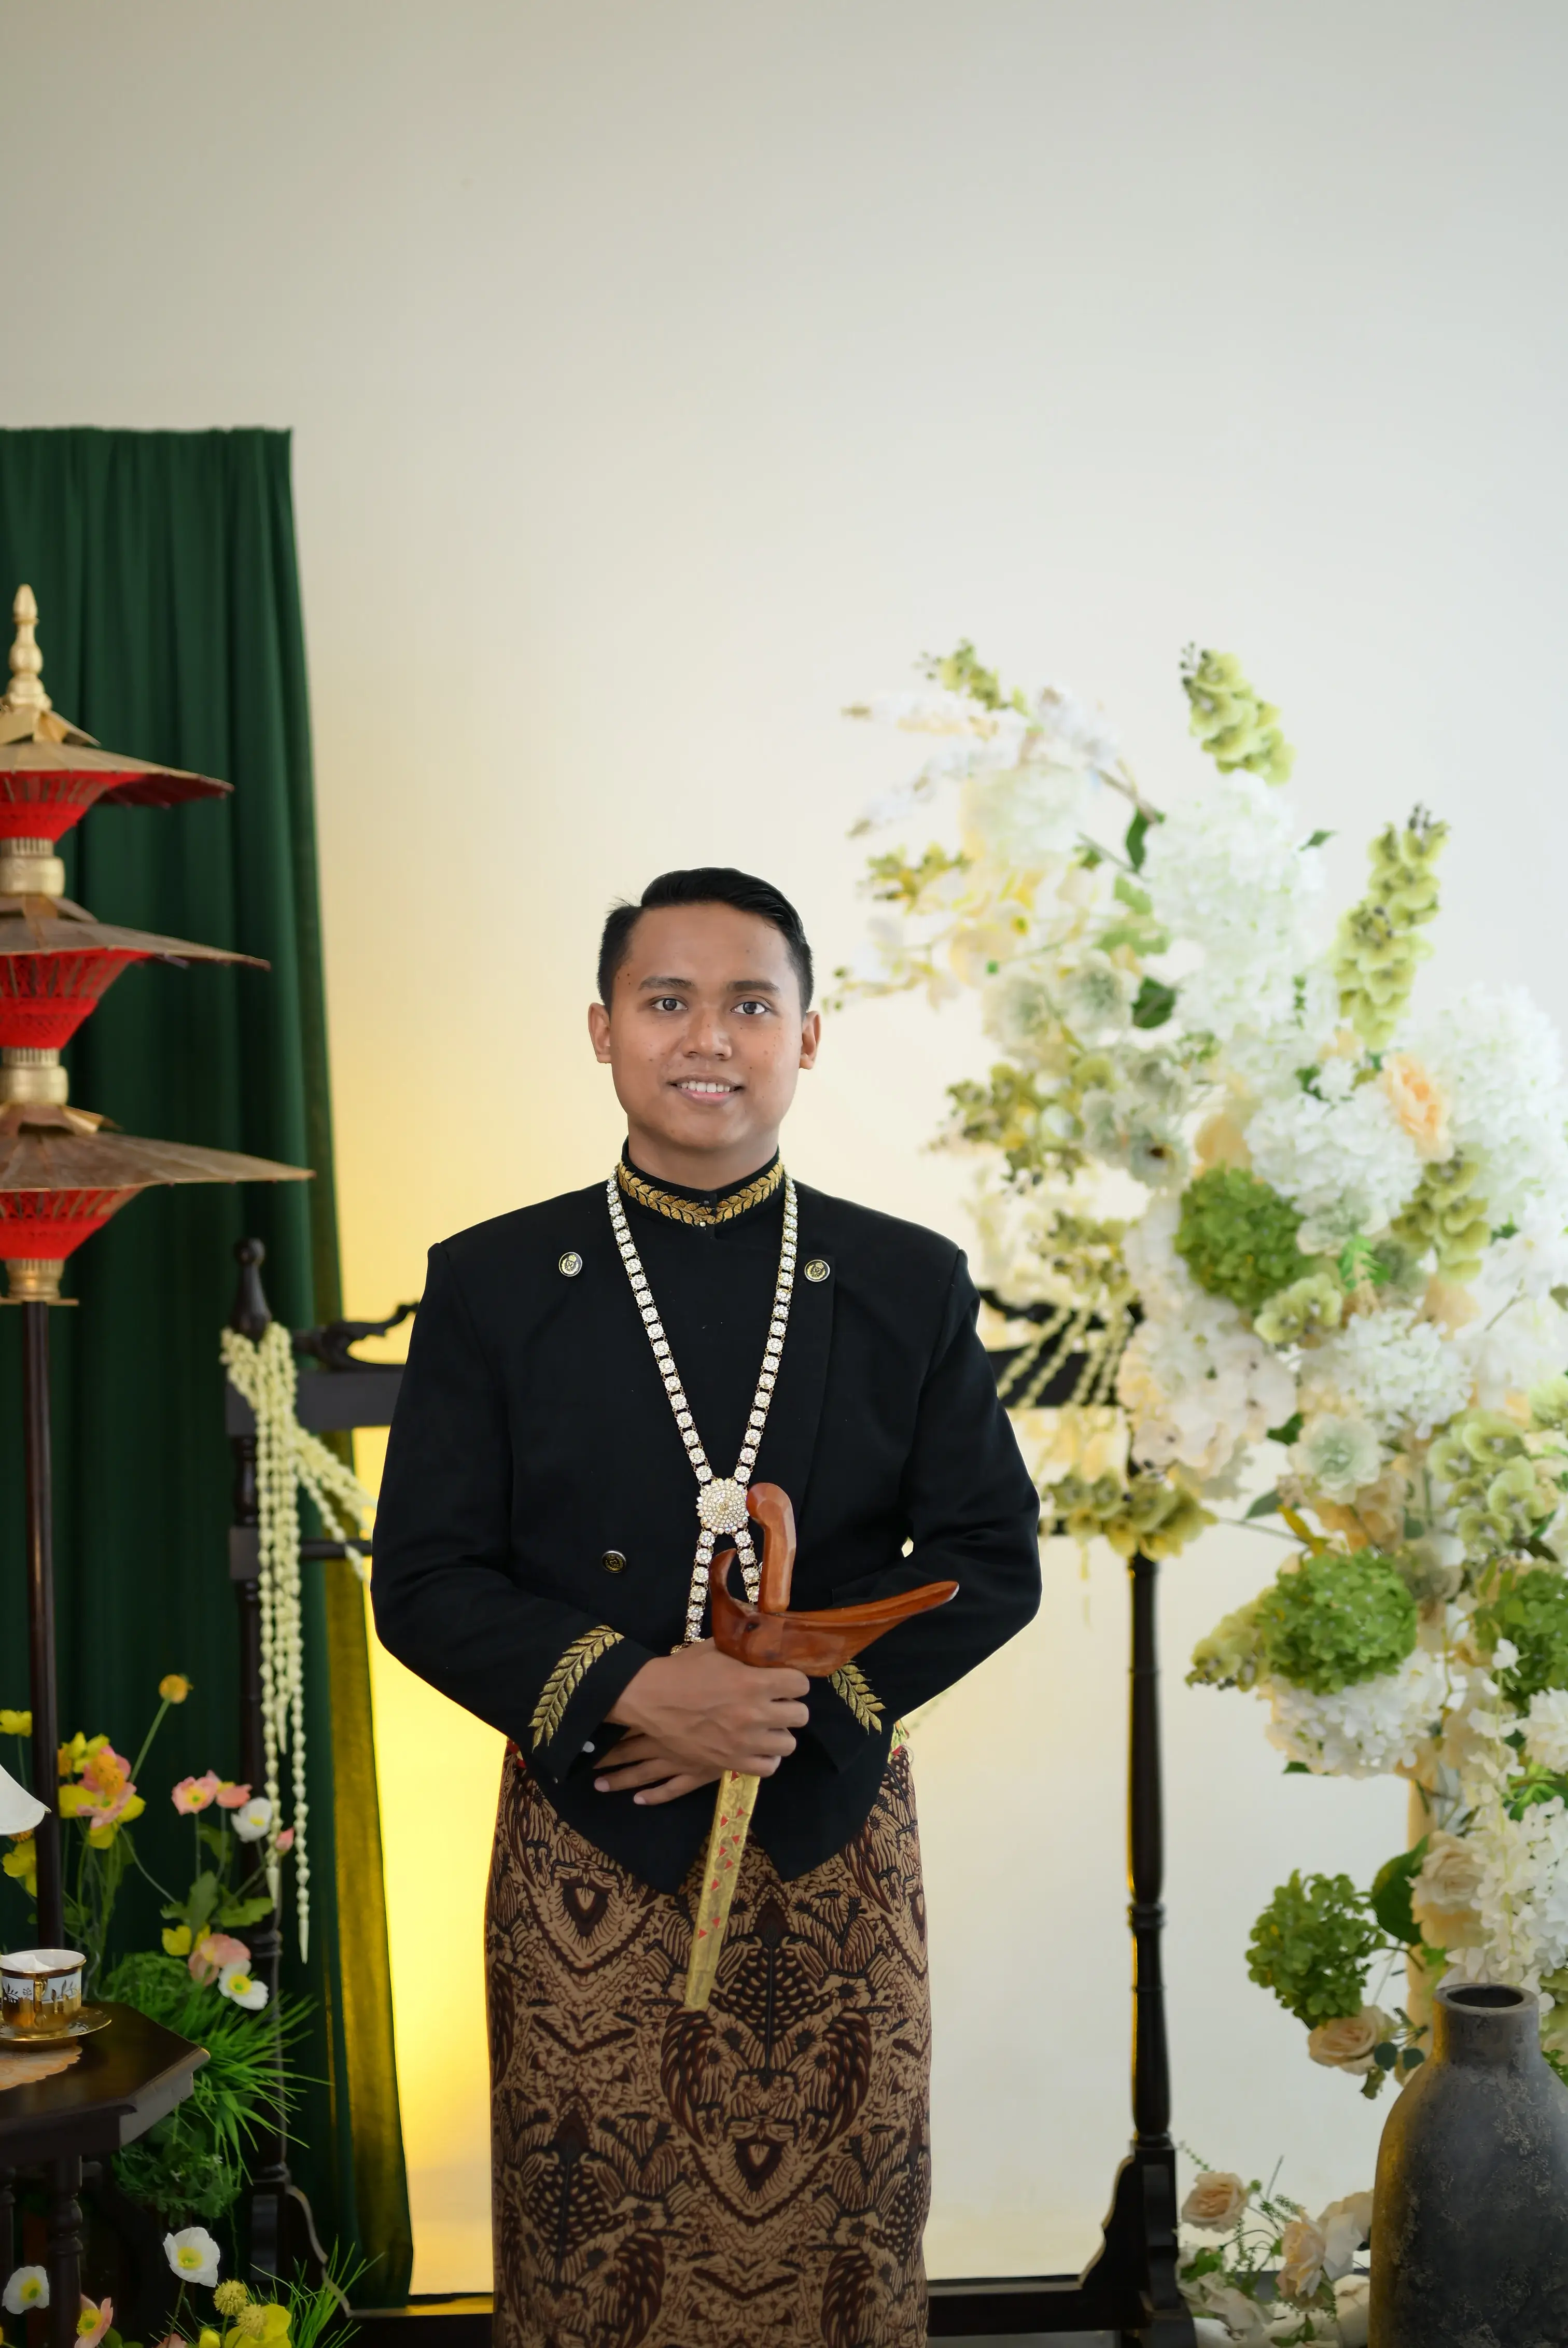
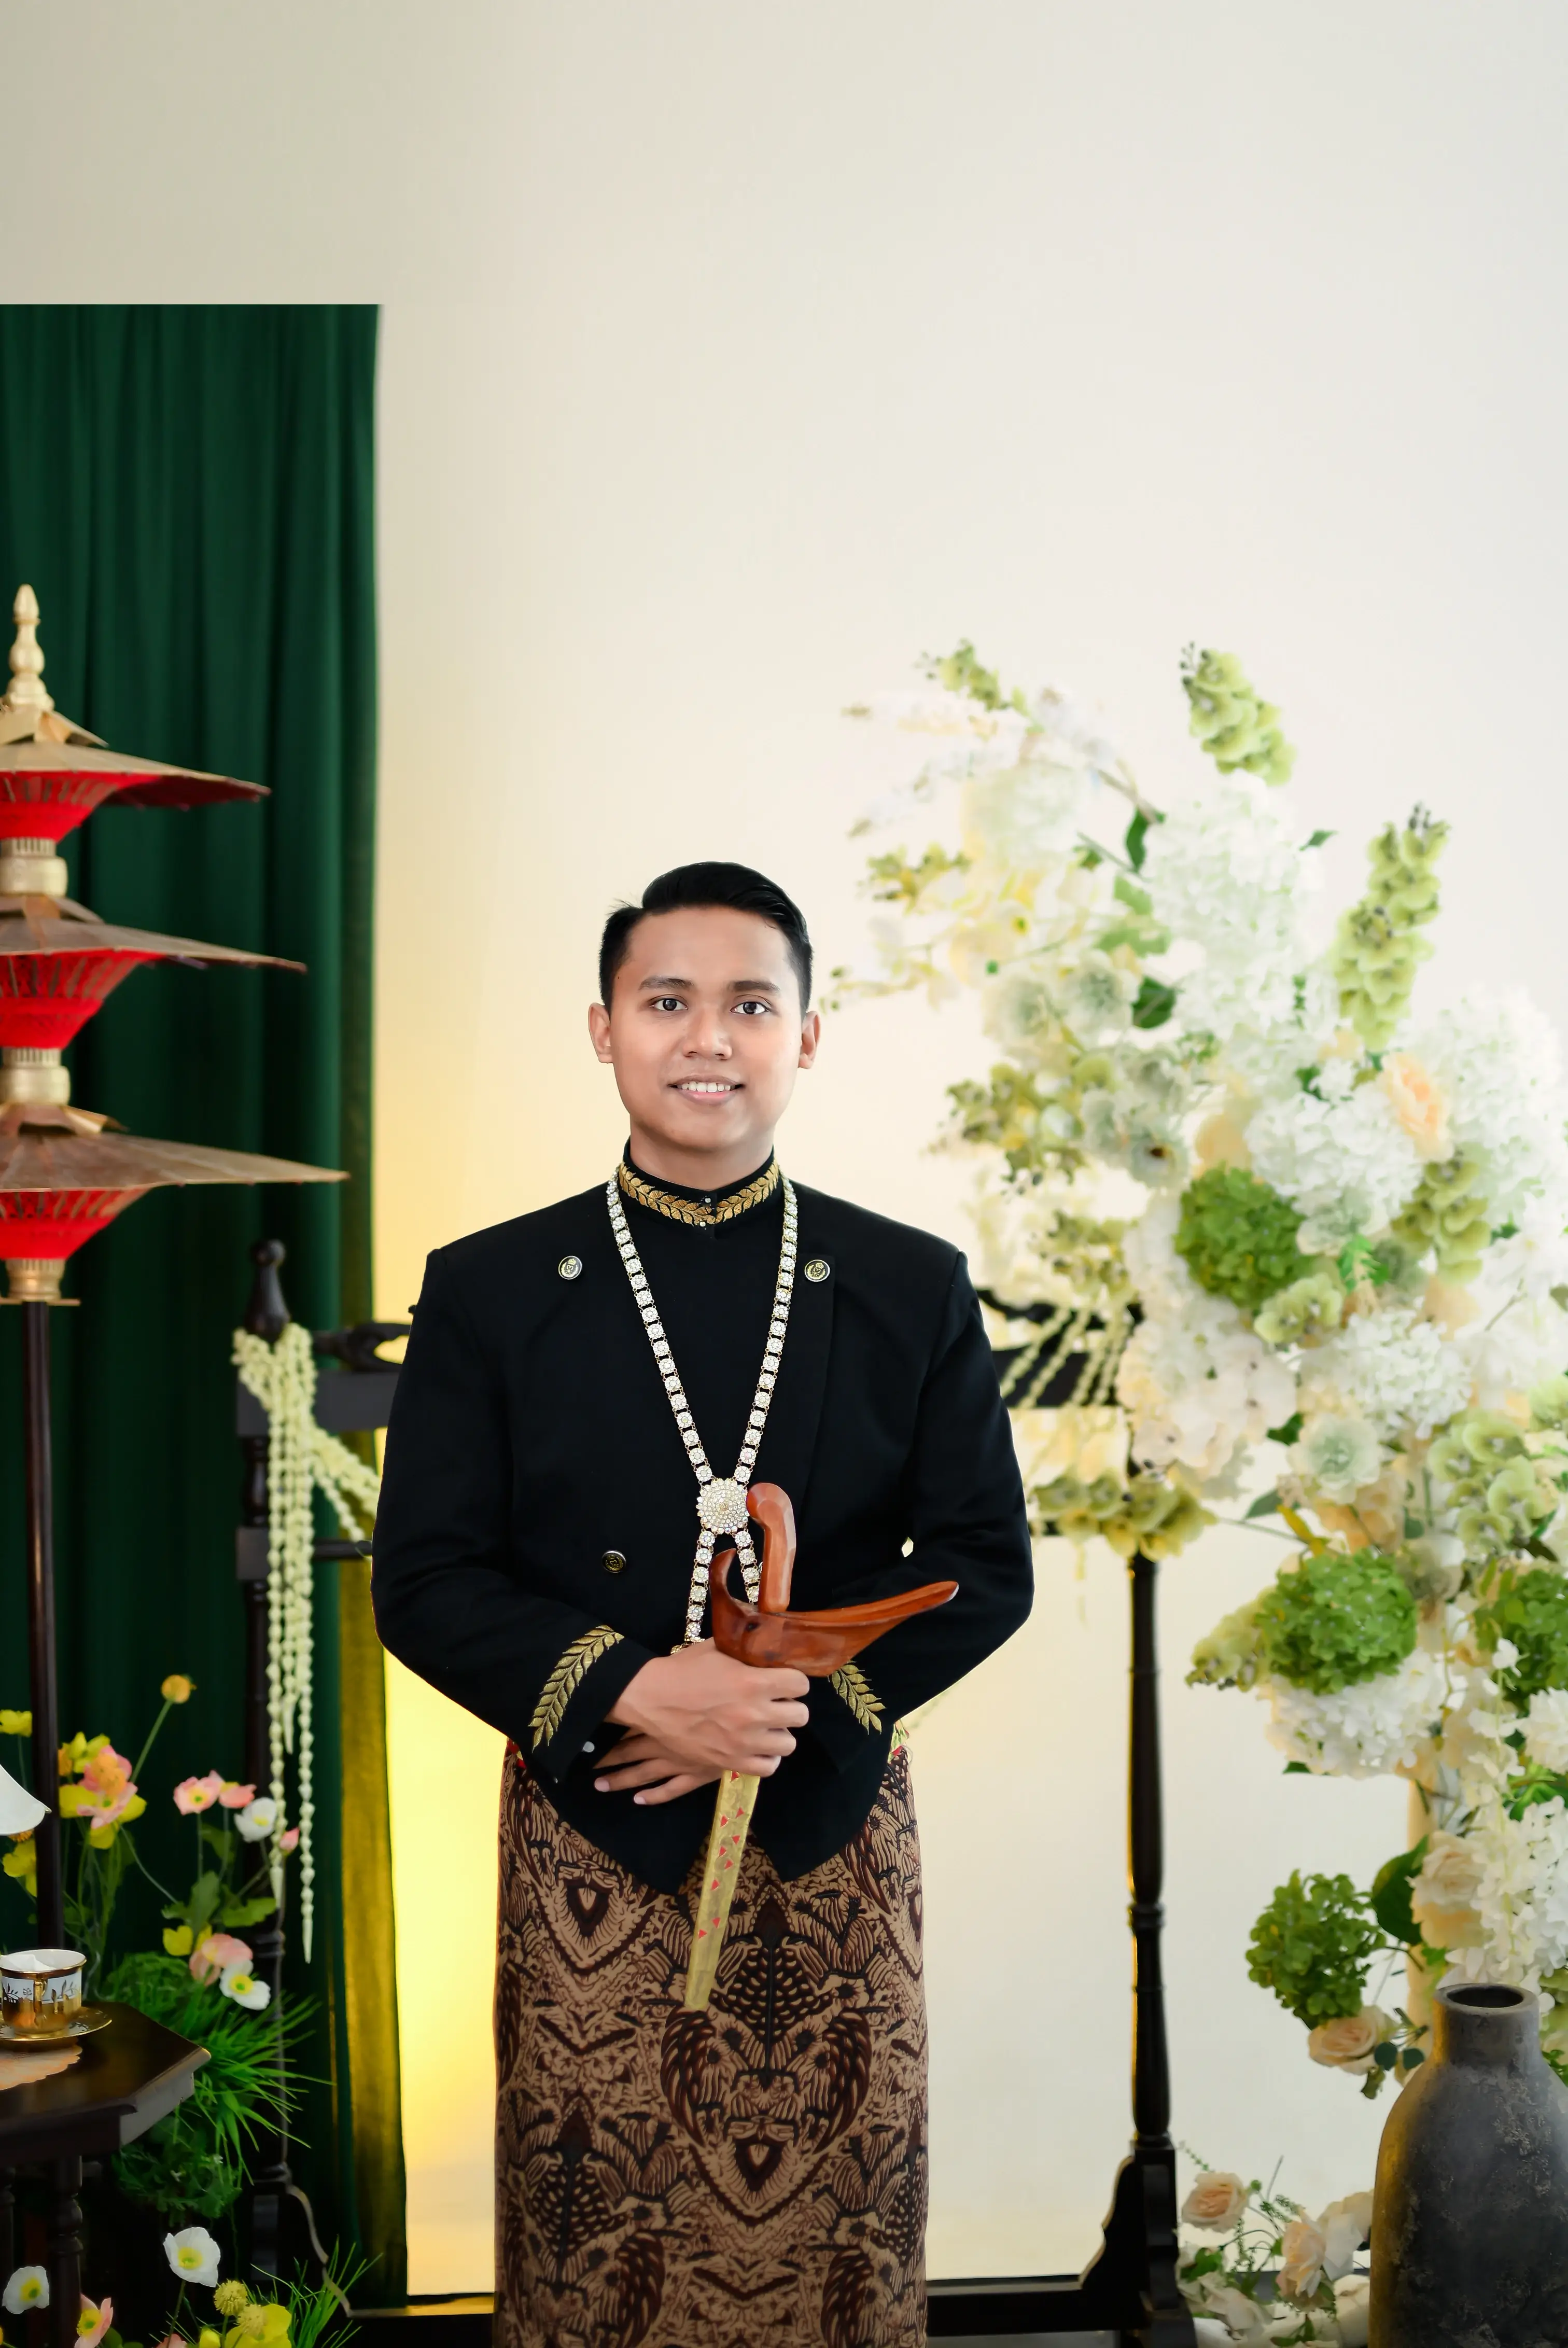
feat: update font styles and enhance layout for improved readability

diff --git a/resources/css/app.css b/resources/css/app.css
@@ -6,7 +6,7 @@
 @source '../**/*.js';
 
 @theme {
-    --font-sans: 'Montserrat', sans-serif;
+    --font-sans: 'Poppins', sans-serif;
     --font-serif: 'Cormorant Garamond', serif;
     --font-violetbee: 'VioletBee';
 

diff --git a/resources/views/welcome.blade.php b/resources/views/welcome.blade.php
@@ -6,7 +6,7 @@
     <meta name="viewport" content="width=device-width, initial-scale=1.0">
     <title>Undangan Pernikahan Mila & Rizal</title>
     <link
-        href="https://fonts.googleapis.com/css2?family=Cormorant+Garamond:wght@400;600;700&family=Montserrat:wght@300;400;500&display=swap"
+        href="https://fonts.googleapis.com/css2?family=Cormorant+Garamond:wght@400;600;700&family=Montserrat:wght@300;400;500&family=Poppins:wght@300;400;500;600;700&display=swap"
         rel="stylesheet">
     <script src="https://cdn.jsdelivr.net/npm/sweetalert2@11"></script>
     @vite(['resources/css/app.css', 'resources/js/app.js'])
@@ -20,7 +20,7 @@
         <!-- Optional overlay branding -->
         <div class="absolute bottom-16 left-12 text-white">
             <p class="text-sm tracking-[0.3em] uppercase font-light mb-2">The Wedding of</p>
-            <h1 class="font-serif text-6xl">Mila & Rizal</h1>
+            <h1 class="font-sans text-6xl">Mila & Rizal</h1>
             <p class="mt-3 text-sm tracking-widest text-white/70">2 . 6 . 26</p>
         </div>
         <!-- Dark gradient at bottom -->
@@ -48,9 +48,9 @@
             <canvas id="lottie-bird" class="absolute top-30 right-10"></canvas>
 
             <!-- Top: Title + Date (absolute so it doesn't affect flow) -->
-            <div class="absolute top-40 left-0 right-0 text-center z-10 text-white">
-                <h2 class="font-serif text-lg tracking-widest italic font-semibold">Invitation Wedding</h2>
-                <p class="mt-2 text-base tracking-[0.4em] text-[#e8e0c8]">2 . 6 . 2 6</p>
+            <div class="absolute top-32 md:top-40 left-0 right-0 text-center z-10 text-white">
+                <h2 class="font-sans text-lg tracking-widest italic font-semibold">Invitation Wedding</h2>
+                <p class="mt-2 text-base font-bold tracking-[0.4em] text-[#e8e0c8]">2 . 6 . 2 6</p>
             </div>
 
             <!-- Spacer to push content down past the mountain -->
@@ -116,7 +116,7 @@
 
                 <div class="container mx-auto px-6 text-center z-4">
                     <div class="mt-10">
-                        <h2 class="font-serif text-2xl md:text-3xl text-white mb-2 reveal-up">The Wedding of</h2>
+                        <h2 class="font-sans text-2xl md:text-3xl text-white mb-2 reveal-up">The Wedding of</h2>
                         <h1 class="font-violetbee text-6xl text-white mb-10 reveal-up">Mila & Rizal</h1>
                     </div>
 
@@ -180,7 +180,7 @@
                                         class="w-full h-full object-cover" alt="Bride">
                                 </div>
                             </div>
-                            <h3 class="font-violetbee text-4xl text-white mb-1">Mila</h3>
+                            <h3 class="font-violetbee text-5xl text-white mb-1">Mila</h3>
                             <p class="font-bold text-white text-xl">Jamilatul Aisyiah</p>
                             <p class="text-xs text-white mt-1">Putri Bapak Jamak dan Ibu Hafidatul Aini</p>
                             <a href="#"
@@ -214,7 +214,7 @@
                                         class="w-full h-full object-cover" alt="Groom">
                                 </div>
                             </div>
-                            <h3 class="font-violetbee text-4xl text-white mb-1">Rizal</h3>
+                            <h3 class="font-violetbee text-5xl text-white mb-1">Rizal</h3>
                             <p class="font-bold text-white text-xl">Rizal Abul Fata</p>
                             <p class="text-xs text-white mt-1">Putra Bapak Abd. Wasit dan Ibu Sitti Hasilah</p>
                             <a href="#"
@@ -615,13 +615,17 @@
 
             <!-- Gallery Section -->
             <section id="gallery" class="pt-24 pb-60 bg-forest-pattern relative overflow-hidden">
+                <img src="{{ asset('assets/cloud.webp') }}" class="absolute top-20 w-32 animate-cloud-slow"
+                    alt="Animated Cloud">
+                <img src="{{ asset('assets/header-main-bg.webp') }}" class="absolute top-0 left-0" alt="">
+
                 <!-- Title -->
-                <div class="container mx-auto px-4 mb-10 relative z-10 text-center">
-                    <h2 class="font-violetbee text-5xl text-white drop-shadow-md">Our Galery</h2>
+                <div class="container mx-auto px-4 pt-5 mb-10 relative z-10 text-center">
+                    <h2 class="font-violetbee text-6xl text-white drop-shadow-md">Our Galery</h2>
                 </div>
 
                 <!-- Main Grid: 50/50 Split with Unified Gap 2 -->
-                <div class="container mx-auto px-4 grid grid-cols-1 gap-2 relative z-10 max-w-[420px]">
+                <div class="container mx-auto px-4  grid grid-cols-1 gap-2 relative z-10 max-w-[420px]">
 
                     <!-- Row 1: Top Wide Image -->
                     <div class="reveal-zoom">
@@ -683,7 +687,7 @@
             <!-- Gift Section -->
             <section id="gift" class="py-32 bg-white relative overflow-hidden">
                 <div class="container mx-auto px-6 text-center mb-24">
-                    <h2 class="font-serif text-4xl text-forest-800 mb-6 reveal-up uppercase tracking-widest">Kado
+                    <h2 class="font-sans text-4xl text-forest-800 mb-6 reveal-up uppercase tracking-widest">Kado
                         Digital
                     </h2>
                     <p class="text-gray-600 mb-12 reveal-up">Doa restu Anda merupakan karunia yang sangat berarti bagi
@@ -1073,7 +1077,7 @@
                     </button>
                 </div>
 
-                <h3 class="font-serif text-[28px] font-semibold text-white mt-4 leading-tight">Rekening Kami</h3>
+                <h3 class="font-sans text-[28px] font-semibold text-white mt-4 leading-tight">Rekening Kami</h3>
                 <p class="text-sm text-white/50 mt-1 font-light tracking-wide">Pilih metode transfer yang Anda
                     inginkan</p>
             </div>
@@ -1097,7 +1101,7 @@
                         <span
                             class="w-7 h-7 rounded-lg bg-gradient-to-br from-forest-600 to-forest-800 flex items-center justify-center text-white text-[10px] font-semibold">💚</span>
                     </div>
-                    <p class="font-serif text-2xl font-semibold text-forest-950 tracking-wide leading-none mb-1">
+                    <p class="font-sans text-2xl font-semibold text-forest-950 tracking-wide leading-none mb-1">
                         0823 0168 4881</p>
                     <p class="text-xs text-forest-500 mb-3.5">a.n Jamilatul Aisyiah</p>
                     <button onclick="copyToClipboard('082301684881', this)"
@@ -1126,7 +1130,7 @@
                         <span
                             class="w-7 h-7 rounded-lg bg-gradient-to-br from-forest-600 to-forest-800 flex items-center justify-center text-white text-[10px] font-semibold">SB</span>
                     </div>
-                    <p class="font-serif text-2xl font-semibold text-forest-950 tracking-wide leading-none mb-1">
+                    <p class="font-sans text-2xl font-semibold text-forest-950 tracking-wide leading-none mb-1">
                         9012 6653 4460</p>
                     <p class="text-xs text-forest-500 mb-3.5">a.n Jamilatul Aisyiah</p>
                     <button onclick="copyToClipboard('901266534460', this)"
@@ -1152,7 +1156,7 @@
                         <span
                             class="w-7 h-7 rounded-lg bg-gradient-to-br from-forest-600 to-forest-800 flex items-center justify-center text-white text-[10px] font-semibold">BCA</span>
                     </div>
-                    <p class="font-serif text-2xl font-semibold text-forest-950 tracking-wide leading-none mb-1">
+                    <p class="font-sans text-2xl font-semibold text-forest-950 tracking-wide leading-none mb-1">
                         1931 4043 30</p>
                     <p class="text-xs text-forest-500 mb-3.5">a.n Rizal Abul Fata</p>
                     <button onclick="copyToClipboard('1931404330', this)"
@@ -1178,7 +1182,7 @@
                         <span
                             class="w-7 h-7 rounded-lg bg-gradient-to-br from-forest-600 to-forest-800 flex items-center justify-center text-white text-[10px] font-semibold">MDR</span>
                     </div>
-                    <p class="font-serif text-2xl font-semibold text-forest-950 tracking-wide leading-none mb-1">
+                    <p class="font-sans text-2xl font-semibold text-forest-950 tracking-wide leading-none mb-1">
                         1400 0213 89102</p>
                     <p class="text-xs text-forest-500 mb-3.5">a.n Rizal Abul Fata</p>
                     <button onclick="copyToClipboard('1400021389102', this)"